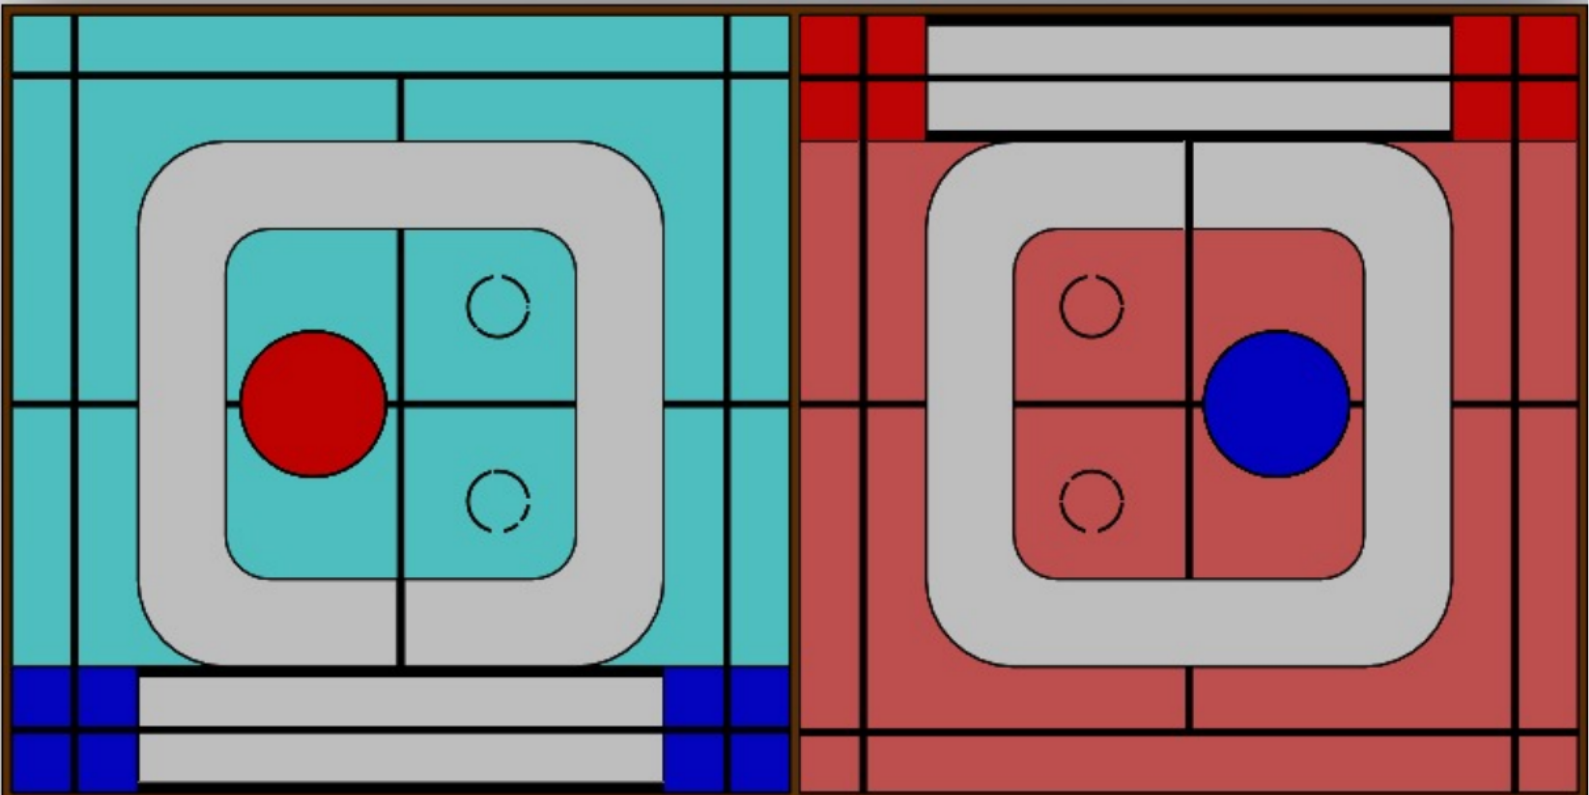
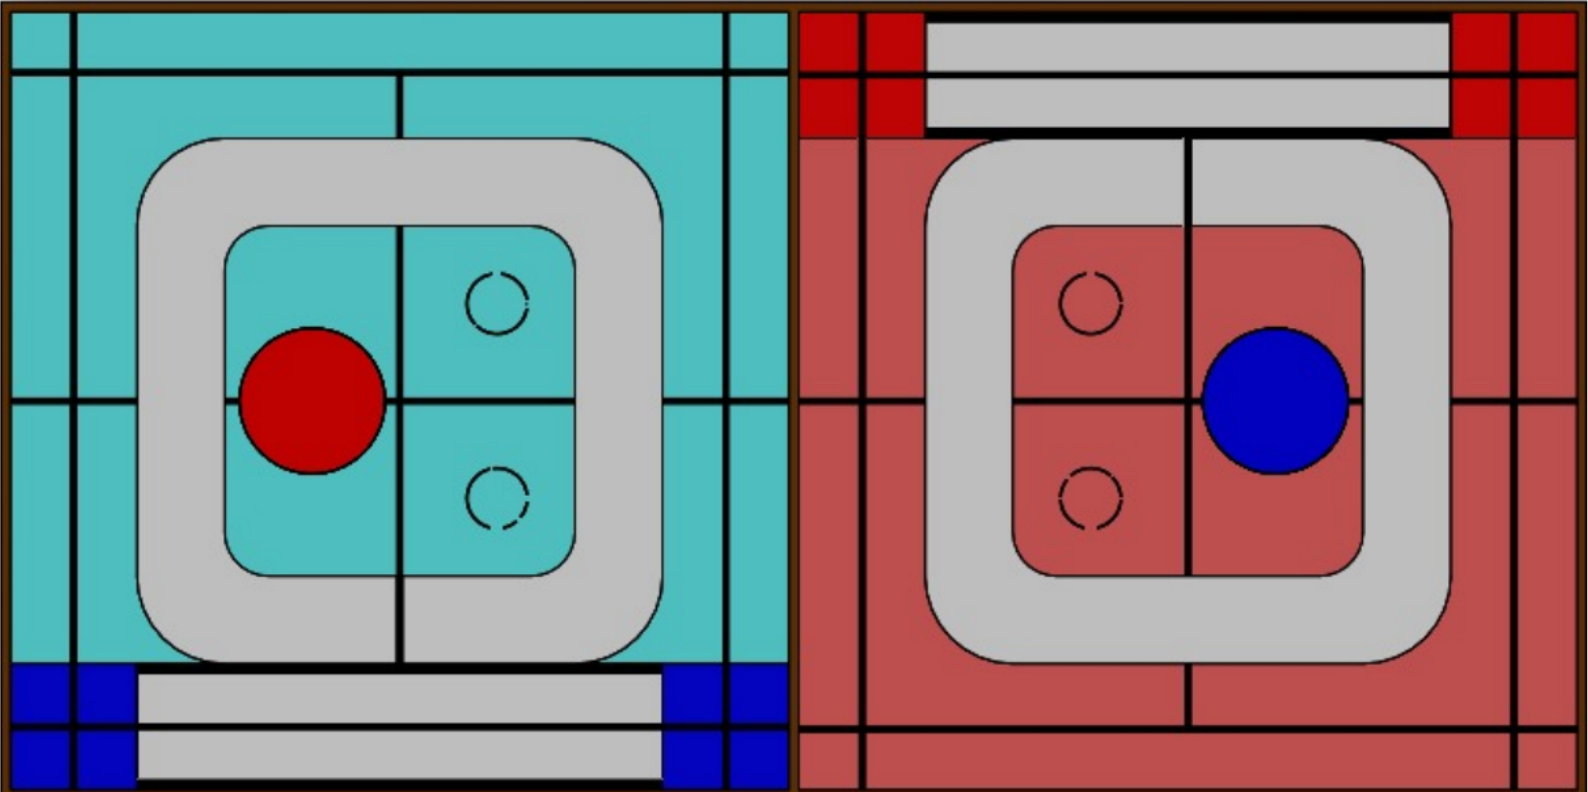
that's it for today

diff --git a/index.html b/index.html
@@ -7,12 +7,26 @@
     <title>2021 RDC Scoreboard</title>
   </head>
   <body class="bg-gray-300 p-4">
-    <div class="flex justify-items-stretch items-stretch">
-      <header aria-label="top-bar" class=""></header>
-      <div id="game-field" class="border mx-0 md:mx-20 xl:mx-[15%] border-black flex-1 relative">
+    <div class="flex flex-col justify-items-stretch items-center">
+
+      <header aria-label="top-bar" class="flex my-2 py-1 gap-5">
+        <button class="top-bar-text text-disable pointer-events-none not-disabled:pointer-events-auto">START</button>
+        <fieldset id="countdown-timer" class="text-disable !text-shadow-none" disabled>03:00:00</fieldset>
+        <button class="top-bar-text text-disable pointer-events-none not-disabled:pointer-events-auto" disabled>STOP</button>
+      </header>
+
+      <div id="game-field" class="flex-1 mx-0 max-w-screen-lg relative md:mx-20 xl:mx-[15%]">
+        <img src="./assets/gamefield.png" alt="gamefield">
       </div>
-      <div aria-label="middle-bar" class="middle-bar"></div>
+
+      <div aria-label="middle-bar" class="flex my-2 max-w-screen-lg w-full py-1 justify-around items-center">
+        <button class="text-disable">Load from JSON</button>
+        <fieldset disabled class="text-disable font-bold text-size-lg !text-shadow-none">0:00:00</fieldset>
+        <button class="text-disable">Save as JSON</button>
+      </div>
+
       <section class="record"></section>
+
       <script type="module" src="/main.js"></script>
     </div>
   </body>

diff --git a/style.css b/style.css
@@ -1,6 +1,11 @@
-#game-field {
-  background-image: url("./assets/gamefield.png");
-  background-repeat: no-repeat;
-  background-size: contain;
-  height: clamp(400px, 795px, calc(100vh - 2rem));
+.text-disable {
+  @apply not-disabled:hover:text-shadow-sm not-disabled:text-warm-gray-700 text-blue-gray-400;
+}
+
+.top-bar-text {
+  @apply text-size-lg md:text-size-xl tracking-wider;
+}
+
+#countdown-timer {
+  @apply font-bold text-size-2xl md:text-size-3xl lg:text-size-4xl tracking-wider;
 }

diff --git a/vite.config.js b/vite.config.js
@@ -1,5 +1,5 @@
 import WindiCSS from "vite-plugin-windicss";
 
 export default {
-  plugins: [WindiCSS()],
+  plugins: [WindiCSS({ config: "./windi.config.js" })],
 };

diff --git a/windi.config.js b/windi.config.js
@@ -1,0 +1,5 @@
+import { defineConfig } from "vite-plugin-windicss";
+
+export default defineConfig({
+  attributify: true,
+});
